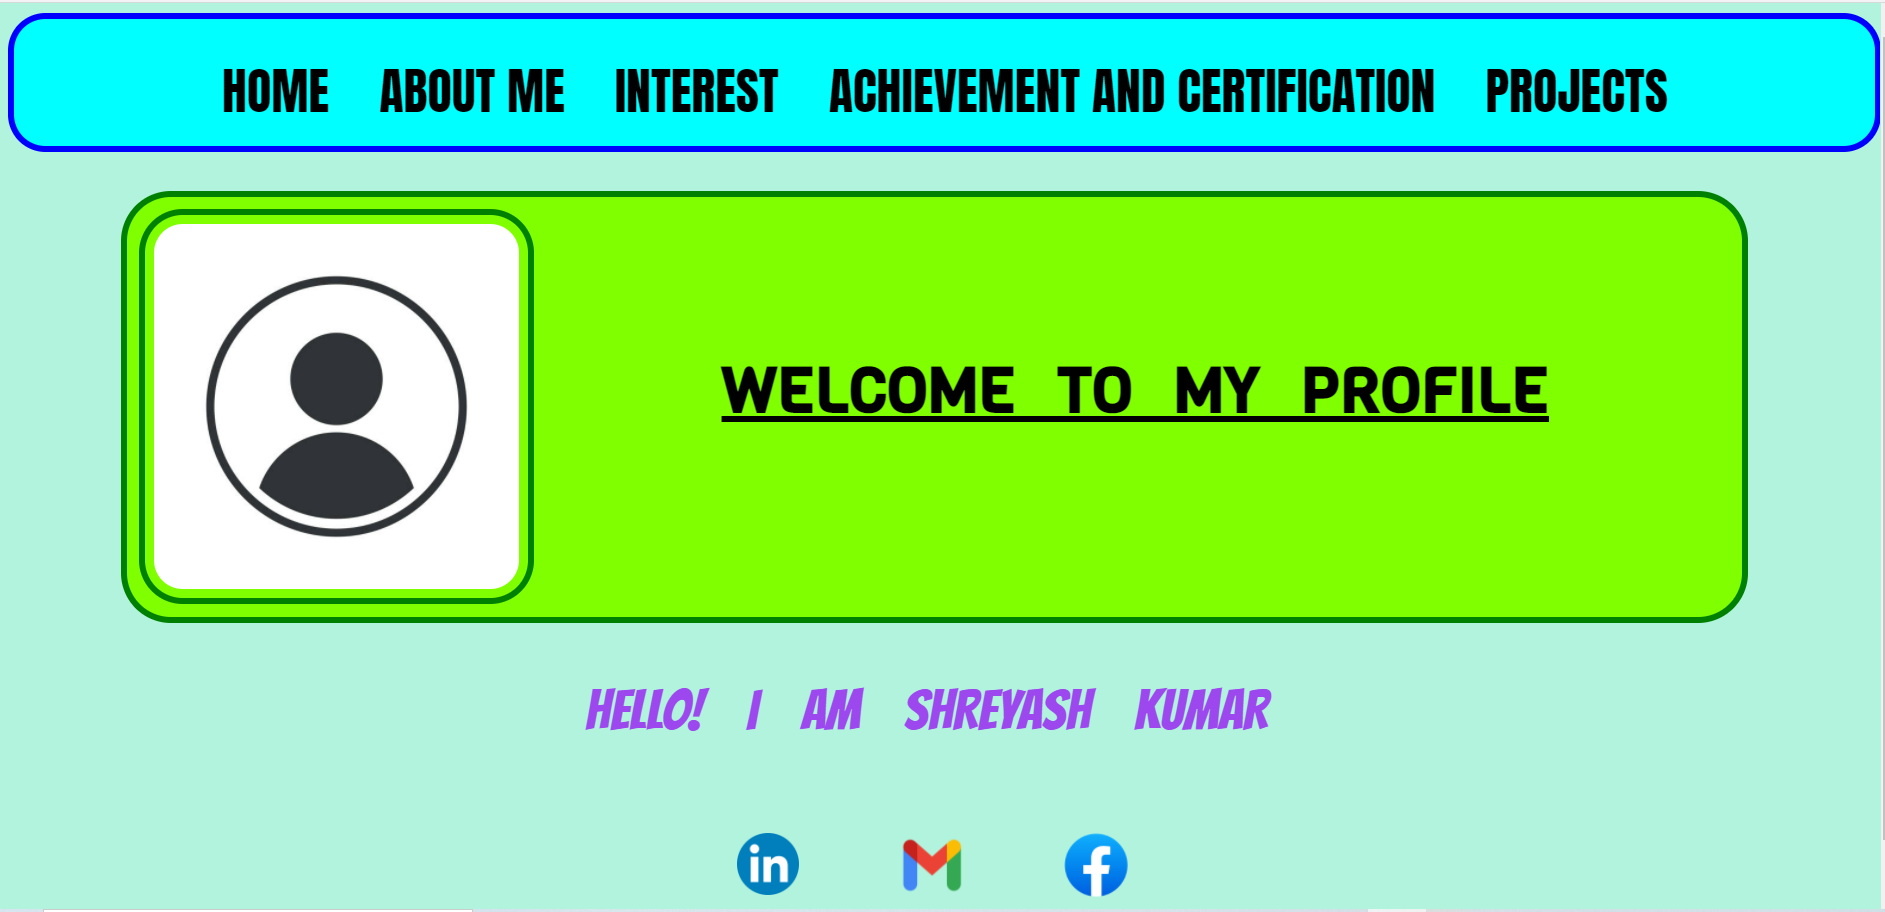
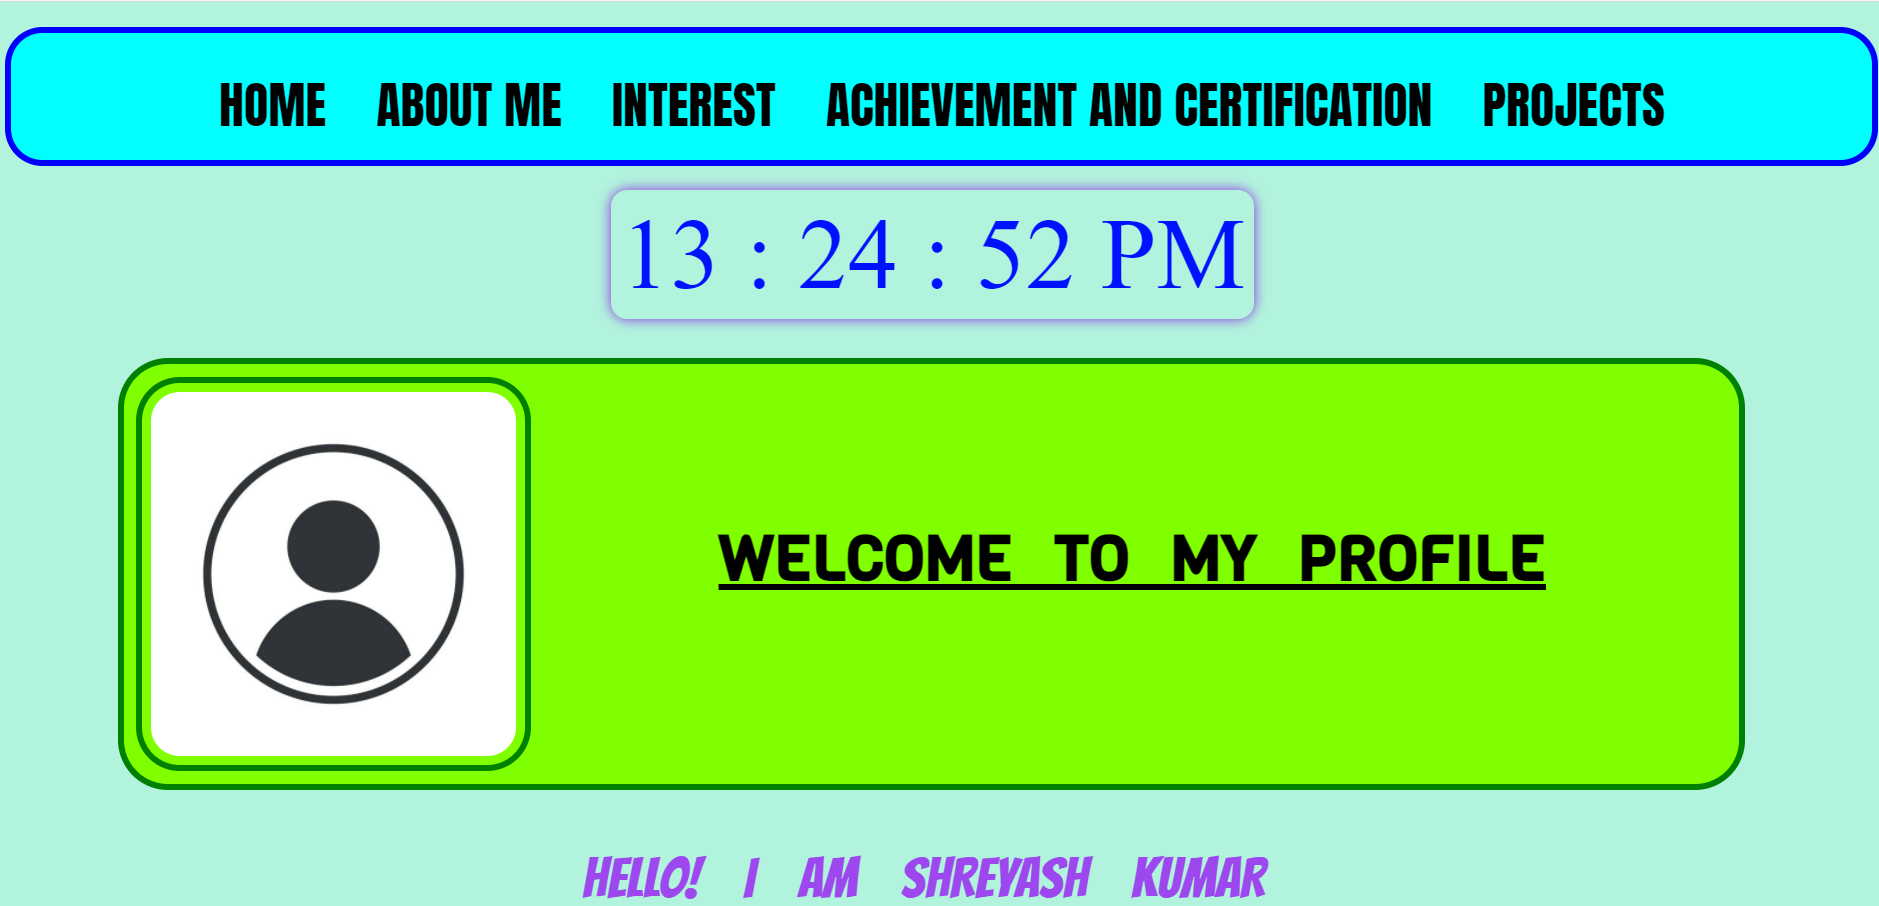
added digi clock in home page

diff --git a/index.html b/index.html
@@ -19,6 +19,9 @@
             </ul>
         </nav>
     </header>
+    <div class="container">
+        <div class="time"><span id="time"></span></div>
+    </div>
     <div class="profileimg">
         <img src="./istockphoto-1300845620-612x612.jpg" alt="">
         <div class="welcome">
@@ -39,5 +42,25 @@
             <a href="https://www.facebook.com/profile.php?id=100075374511352"><img src="./fb.png" alt=""></a>
         </div>
     </div>
+    <script>
+        let x;
+        let hours;
+        let minutes;
+        let seconds;
+        let ampm;
+        setInterval(() => {
+            x=new Date();
+            hours=x.getHours();
+            minutes=x.getMinutes();
+            seconds=x.getSeconds();
+            if(hours>=12){
+                ampm="PM";
+            }else{
+                ampm="AM"
+            }
+            time=hours+" : "+minutes+" : "+seconds+" "+ampm;
+            document.getElementById('time').innerHTML=time;
+        }, 1000);
+    </script>
 </body>
 </html>

diff --git a/style1.css b/style1.css
@@ -53,6 +53,28 @@ header{
     color: yellow;
     border-radius: 15px;
 }
+.container{
+    margin: 18px 0px;
+    width: 90vw;
+    height: 10vh;
+    display: flex;
+    flex-direction: row;
+    justify-content: center;
+    align-items: center;
+}
+.time{
+    font-weight: 700;
+    font-size: 80px;
+    color: rgb(0, 17, 255);
+    width:90vw;
+    height: 10vh;
+    text-align: center;
+    margin-left: 91px;
+}
+#time{
+    border-radius: 13px;
+    box-shadow: 0 0 10px blueviolet;
+}
 .welcome{
     margin-top: 12px;
     font-family: 'Viga', sans-serif;
